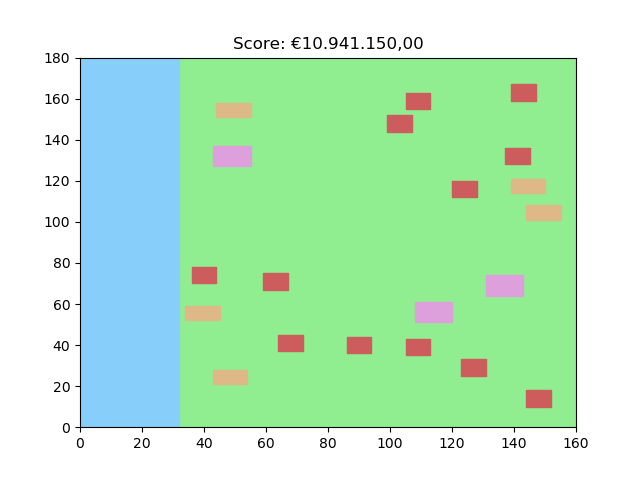
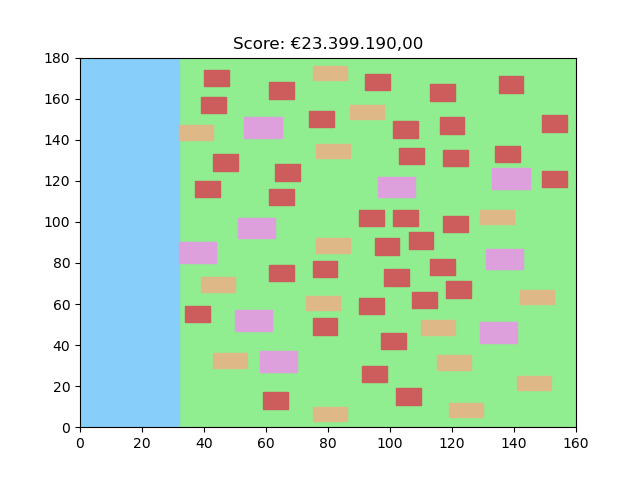
Greedy kleine update

diff --git a/code/algorithms/greedy.py b/code/algorithms/greedy.py
@@ -7,71 +7,70 @@ import random as rd
 import numpy as np
 import math
 import matplotlib.pyplot as plt
+from copy import deepcopy
 
 from code.helpers.score import scorecalculator
 from code.helpers.visualize import visualise
 from code.helpers.builder import waterbuilder, housebuilder
-from code.classes.objects import *
+from code.classes.objects import Borders, House, Water
 from code.helpers.location import *
-
-
-def greedy_housebuilder(max_houses,amount_maison,amount_bungalow,amount_sfh, neighbourhood):
-    highest_score, best, table = 0, 0, []
-    # Loop through every coordinate for each house
-    for i in range(max_houses):
-        for a in range(Borders().maxX):
-            for b in range(Borders().maxY):
-                if i < amount_maison:
-                    house = House("maison", i,a,b)
-                    if location_checker(house, neighbourhood) == False:
-                        while location_checker(house, neighbourhood) == False:
-                            house = House("maison", i, a, b)
-                elif i < amount_bungalow + amount_maison:
-                    house= House("bungalow",i, a, b)
-                    if location_checker(house, neighbourhood) == False:
-                        while location_checker(house, neighbourhood) == False:
-                            house = House("bungalow", i, a, b)
-                else:
-                    house = House("sfh",i,a,b)
-                    if location_checker(house, neighbourhood) == False:
-                        while location_checker(house, neighbourhood) == False:
-                            house = House("sfh", i,a,b)
-                score = scorecalculator(neighbourhood)
-                if score > highest_score:
-                    highest_score = score
-                    best_house = house
-        neighbourhood.append(house)
-                
-    score = scorecalculator(neighbourhood)
-    return neighbourhood, score
 
 
 def greedy_algorithm(iterations, water_layout, max_houses):
  # standard neighbourhood distribution of the houses
-    fraction_sfh,fraction_bungalow,fraction_maison = 0.6, 0.25, 0.15
-    amount_sfh, amount_bungalow, amount_maison = max_houses * fraction_sfh, max_houses * fraction_bungalow, max_houses * fraction_maison
+    fraction_bungalow,fraction_maison = 0.25, 0.15
+    amount_bungalow, amount_maison =  max_houses * fraction_bungalow, max_houses * fraction_maison
 
-    highest_score, best, table = 0, 0, []
-    # iterate through different creations of the neighbourhood
-    for i in range(iterations):
-        # create neighbourhood, place water and build houses, collect neighbourhood and score
-        neighbourhood = []
-        neighbourhood = waterbuilder(water_layout, neighbourhood)
-        neighbourhood, score = greedy_housebuilder(max_houses, amount_maison,amount_bungalow,amount_sfh, neighbourhood)
+    highest_score, table = 0, []
+    # create neighbourhood, place water and build houses, collect neighbourhood and score
+    neighbourhood = []
+    neighbourhood = waterbuilder(water_layout, neighbourhood)
+    highest_score = 0
+    # neighbourhood, score = greedy_housebuilder(max_houses, amount_maison,amount_bungalow,amount_sfh, neighbourhood)
+    for i in range(max_houses):
+        highest_score = 0
+        if i < amount_maison:
+            test_house = House("maison", i)
+            name = "maison"
+        elif i < amount_maison + amount_bungalow:
+            test_house = House("bungalow", i)
+            name = "bungalow"
+        else:
+            test_house = House("sfh", i)
+            name = "sfh"                       
+        for a in range(test_house.free_area, (Borders().maxX - test_house.free_area - test_house.width)):
+            for b in range(test_house.free_area, (Borders().maxY - test_house.free_area - test_house.width)):
+                temp_neighbourhood = deepcopy(neighbourhood)
+                if name == "maison":
+                    house = House("maison", i,a,b)
+                    if location_checker(house, temp_neighbourhood) == True:
+                        temp_neighbourhood.append(house)
+                        score = scorecalculator(temp_neighbourhood)
+                        if score > highest_score:
+                            best_house = deepcopy(house)
+                            highest_score = score
+                if name == "bungalow":
+                    house= House("bungalow",i, a, b)
+                    if location_checker(house, temp_neighbourhood) == True:
+                        temp_neighbourhood.append(house)
+                        score = scorecalculator(temp_neighbourhood)
+                        if score > highest_score:
+                            best_house = deepcopy(house)
+                            highest_score = score
+                if name == "sfh":
+                    house = House("sfh",i,a,b)
+                    if location_checker(house, temp_neighbourhood) == True:
+                        temp_neighbourhood.append(house)
+                        score = scorecalculator(temp_neighbourhood)
+                        if score > highest_score:
+                            best_house = deepcopy(house)
+                            highest_score = score
+        neighbourhood.append(best_house)
+        highest_score = scorecalculator(neighbourhood)
+        table.append([i, max_houses, highest_score, best_house.coordinates, best_house.name])
 
-
-        # add iteration number, max_houses and score to the table
-        table.append([i, max_houses, score])
-        
-        # if the score of the neighbourhood in this iteration is the highest till now than save the neighbourhood and the score
-        if score > highest_score:
-            best = neighbourhood
-            highest_score = score
-    
     # save the information from the iteration
-    df_greedy = pd.DataFrame(table, columns = ["iteration", "max_houses","score"]).set_index("iteration")
-    print(df_greedy)
-    '''
+    df_greedy = pd.DataFrame(table, columns = ["iteration", "max_houses","score", "coordinates", "type"]).set_index("iteration")
     df_greedy.to_csv("results/"+ str(iterations)+"-"+str(max_houses)+"-greedy.csv")
     
     # make a histogram of the scores from all the neighbourhoods made through the iterations
@@ -80,5 +79,4 @@ def greedy_algorithm(iterations, water_layout, max_houses):
     plt.close()
     
     # make a visualisation of the best random neighbourhood and save it
-    visualise(best, highest_score, "bestgreedy")
-    '''
+    visualise(neighbourhood, highest_score, "bestgreedy")

diff --git a/main.py b/main.py
@@ -10,7 +10,7 @@ from code.helpers.visualize import visualise
 from code.helpers.builder import waterbuilder, housebuilder
 from code.algorithms.random import random_algorithm
 from code.algorithms.hillclimber import hillclimber_algorithm
-#from code.algorithms.greedy import *
+from code.algorithms.greedy import *
 
 if __name__ == "__main__":
 
@@ -56,9 +56,9 @@ if __name__ == "__main__":
         hillclimber_algorithm(iterations, water_layout, n_houses)
 
     # execute greedy algorithm
-    #elif approach == "greedy":
-    #    greedy_algorithm(iterations, water_layout, n_houses)
+    elif approach == "greedy":
+       greedy_algorithm(iterations, water_layout, n_houses)
 
-    # if no algorithm is specified execute random algorithm
+    #if no algorithm is specified execute random algorithm
     else:
         random_algorithm(iterations, water_layout, n_houses)
